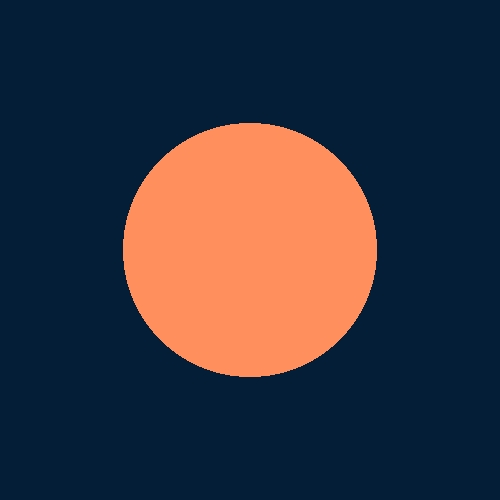
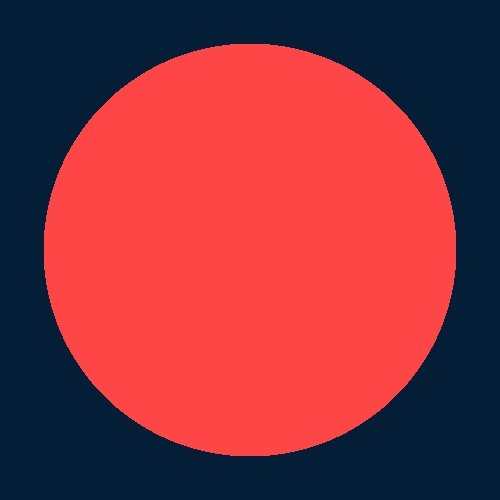
Deleting irrelevant methods

diff --git a/src/Testing/TestMy2DPictureRenderer.java b/src/Testing/TestMy2DPictureRenderer.java
@@ -40,33 +40,25 @@ public class TestMy2DPictureRenderer {
 //        render.renderImage();
 //    }
 
-//    @Test
-//    public void t2(){
-//        Camera c = new Camera(Point3D.ZERO, new Vector(0, 0, 1), new Vector(0, -1, 0));
-//        System.out.println(c.tt(500,500,0,0,100,500,500));
-//        System.out.println(c.tt(500,500,250,250,100,500,500));
-//        System.out.println(c.tt(500,500,500,500,100,500,500));
-//        System.out.println(Point3D.ZERO.distance(new Point3D(0,70,60)));
-//        System.out.println(Point3D.ZERO.distance(new Point3D(0,25,110)));
-//    }
+    @Test
+    public void clouds() {
+        Scene scene = new Scene("Test scene");
+        scene.setCamera(new Camera(Point3D.ZERO, new Vector(0, 0, 1), new Vector(0, -1, 0)));
+        scene.setScreenDistance(100) ;
+        scene.setBackground(new Color(5, 30, 56, 255));
 
-//    @Test
-//    public void clouds() {
-//        Scene scene = new Scene("Test scene");
-//        scene.setCamera(new Camera(Point3D.ZERO, new Vector(0, 0, 1), new Vector(0, -1, 0)));
-//        scene.setScreenDistance(100) ;
-//        scene.setBackground(new Color(5, 30, 56, 255));
-//
-////        scene.addGeometry(new Sphere(300, new Point3D(350,0,1800), new Color(255, 255, 255)));
-////        scene.addGeometry(new Sphere(30, new Point3D(100,0,180), new Color(255, 255, 255)));
-////        scene.addGeometry(new Sphere(5000, new Point3D(17000,-10000,18000), new Color(255, 255, 255)));
-//
-//        scene.addGeometry(new Sphere(120, new Point3D(0,0,200), new Color(255, 70, 70, 255)));
+//        scene.addGeometry(new Sphere(300, new Point3D(350,0,1800), new Color(255, 255, 255)));
+//        scene.addGeometry(new Sphere(30, new Point3D(100,0,180), new Color(255, 255, 255)));
+//        scene.addGeometry(new Sphere(5000, new Point3D(17000,-10000,18000), new Color(255, 255, 255)));
+
+        scene.addGeometry(new Sphere(900, new Point3D(0,0,1000), new Color(255, 70, 70, 255)));
 //        scene.addGeometry(new Sphere(110, new Point3D(0,0,140), new Color(255, 143, 93, 255)));
-//
-//        ImageWriter imageWriter = new ImageWriter("my2DPictureClouds", 500, 500, 500, 500);
-//        Renderer render = new Renderer(scene, imageWriter);
-//
-//        render.renderImage();
-//    }
+        scene.addGeometry(new Sphere(600, new Point3D(0,0,900), new Color(255, 246, 70, 255)));
+//        scene.addGeometry(new Sphere(110, new Point3D(0,0,80), new Color(255, 143, 93, 255)));
+
+        ImageWriter imageWriter = new ImageWriter("my2DPictureClouds", 500, 500, 500, 500);
+        Renderer render = new Renderer(scene, imageWriter);
+
+        render.renderImage();
+    }
 }

diff --git a/src/Elements/Camera.java b/src/Elements/Camera.java
@@ -69,18 +69,4 @@ public class Camera {
         Vector vIJ = new Vector(pIJ.subtract(this._P0));
         return new Ray(this._P0,vIJ.normalize());
     }
-
-    public Point3D tt(int nX, int nY, int j, int i,
-                                        double screenDistance, double screenWidth, double screenHeight){
-        Point3D pCenter = new Point3D( this._P0.add( this._vTo.scale( screenDistance ) ) );
-        double rY = screenHeight / nY;
-        double rX = screenWidth / nX;
-        double yI = (i - nY/2.0 + 0.5) * rY;
-        double xJ = (j - nX/2.0 + 0.5) * rX;
-        Point3D pIJ = pCenter;
-        if(xJ != 0) pIJ = pIJ.add(this._vRight.scale(xJ));
-        if(yI != 0) pIJ = pIJ.add(this._vUp.scale(-yI));
-        return pIJ;
-    }
-
 }
